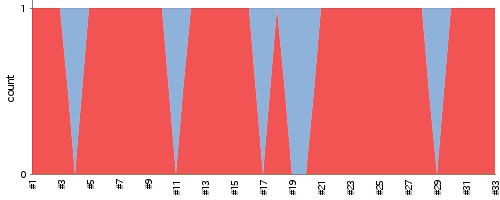
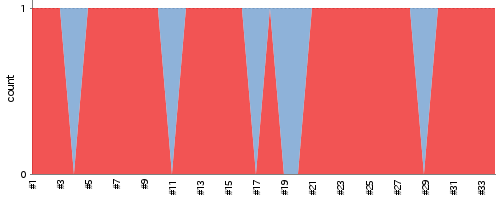
update report

diff --git a/index.md b/index.md
@@ -2,7 +2,7 @@
 layout: default
 ---
 # Jenkins CI report For HRG
-## Build and test report (2015/07/05 01:28:23)
+## Build and test report (2015/07/05 02:28:29)
 ### Build Status
 ___
 ![Build Status](http://jenkinshrg.github.io/images/badge.svg)
@@ -31,12 +31,13 @@ UNSTABLE
 * Stability
   
 ![Jenkins Icon](http://jenkinshrg.github.io/images/48x48/health-00to19.png)
-18%
+17%
   
 * Latest Results
   
 |Status|Time|Duration|Changes|Build|Test|Note|
 |---|---|---|---|---|---|---|
+|![Jenkins Icon](http://jenkinshrg.github.io/images/24x24/yellow.png)UNSTABLE|2015/07/05 02:00|28 min.||[BUILD](https://drive.google.com/file/d/0B54sHwaxmuM4NnptWnNfQmtvQ1E/view?usp=drivesdk) |[CONSOLE](https://drive.google.com/file/d/0B54sHwaxmuM4RVRtSW1wQTNlVTg/view?usp=drivesdk) [IMAGE](https://drive.google.com/file/d/0B54sHwaxmuM4aDZFY3pBTW9leVU/edit?usp=drivesdk) [VIDEO](https://drive.google.com/file/d/0B54sHwaxmuM4WDAwREx0T2FxYmc/edit?usp=drivesdk) |STOP RED|
 |![Jenkins Icon](http://jenkinshrg.github.io/images/24x24/yellow.png)UNSTABLE|2015/07/05 01:00|28 min.||[BUILD](https://drive.google.com/file/d/0B54sHwaxmuM4cmxXNjBncHVuWnM/view?usp=drivesdk) |[CONSOLE](https://drive.google.com/file/d/0B54sHwaxmuM4d3lOZDRlUnRJbEU/view?usp=drivesdk) [IMAGE](https://drive.google.com/file/d/0B54sHwaxmuM4YkJNdmNrM3VvMXc/edit?usp=drivesdk) [VIDEO](https://drive.google.com/file/d/0B54sHwaxmuM4V1FmUXpnOV96bmc/edit?usp=drivesdk) |STOP NORMAL|
 |![Jenkins Icon](http://jenkinshrg.github.io/images/24x24/yellow.png)UNSTABLE|2015/07/05 00:00|28 min.||[BUILD](https://drive.google.com/file/d/0B54sHwaxmuM4R19SSmhxQ1F1eDg/view?usp=drivesdk) |[CONSOLE](https://drive.google.com/file/d/0B54sHwaxmuM4TnhyZ09PcU02dm8/view?usp=drivesdk) [IMAGE](https://drive.google.com/file/d/0B54sHwaxmuM4aXFwaWtSTzRVb3M/edit?usp=drivesdk) [VIDEO](https://drive.google.com/file/d/0B54sHwaxmuM4SXFhQTR4ZHlmaWM/edit?usp=drivesdk) |STOP NORMAL|
 |![Jenkins Icon](http://jenkinshrg.github.io/images/24x24/yellow.png)UNSTABLE|2015/07/04 23:00|28 min.||[BUILD](https://drive.google.com/file/d/0B54sHwaxmuM4M0ZjNExGclNiVDQ/view?usp=drivesdk) |[CONSOLE](https://drive.google.com/file/d/0B54sHwaxmuM4R2FRS3lKeXFwQ0U/view?usp=drivesdk) [IMAGE](https://drive.google.com/file/d/0B54sHwaxmuM4VmxiS1BpVkdPWlk/edit?usp=drivesdk) [VIDEO](https://drive.google.com/file/d/0B54sHwaxmuM4MWpNSVZSQ2Jac1E/edit?usp=drivesdk) |STOP NORMAL|
